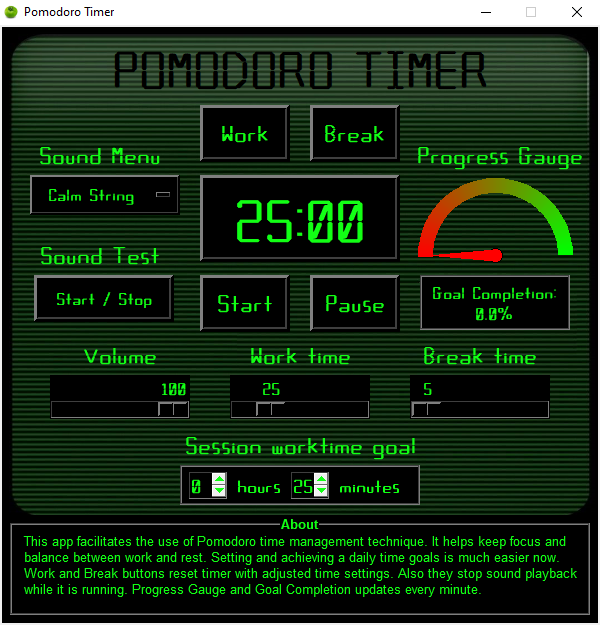
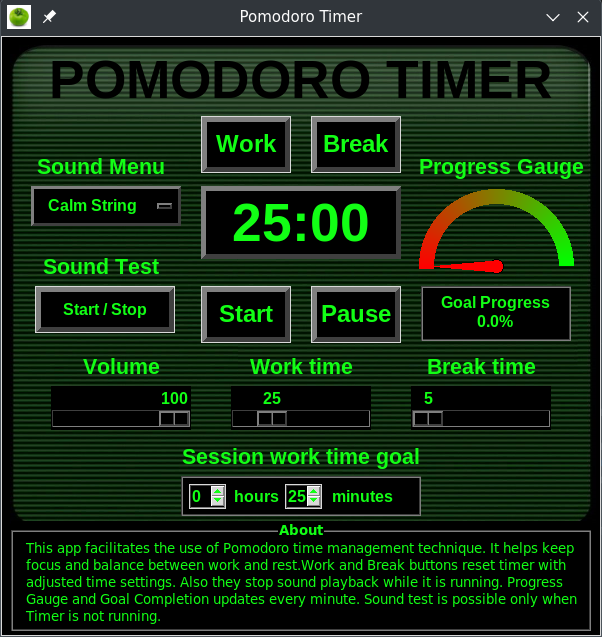
Updated UI image, renamed background asset, updated main.py, added appimage/ to .gitignore

diff --git a/main.py b/main.py
@@ -19,7 +19,7 @@ sounds_dir = assets_dir / "sounds"
 #Font definition
 font="Arial"
 font_color = '#12FF15'
-background_img = images_dir / "bkground.png"
+background_img = images_dir / "background.png"
 background_color = 'black'
 counter_seconds = 1500  # Starting time setting of timer().
 work_passed = 0  # Counts seconds of work time passed.
